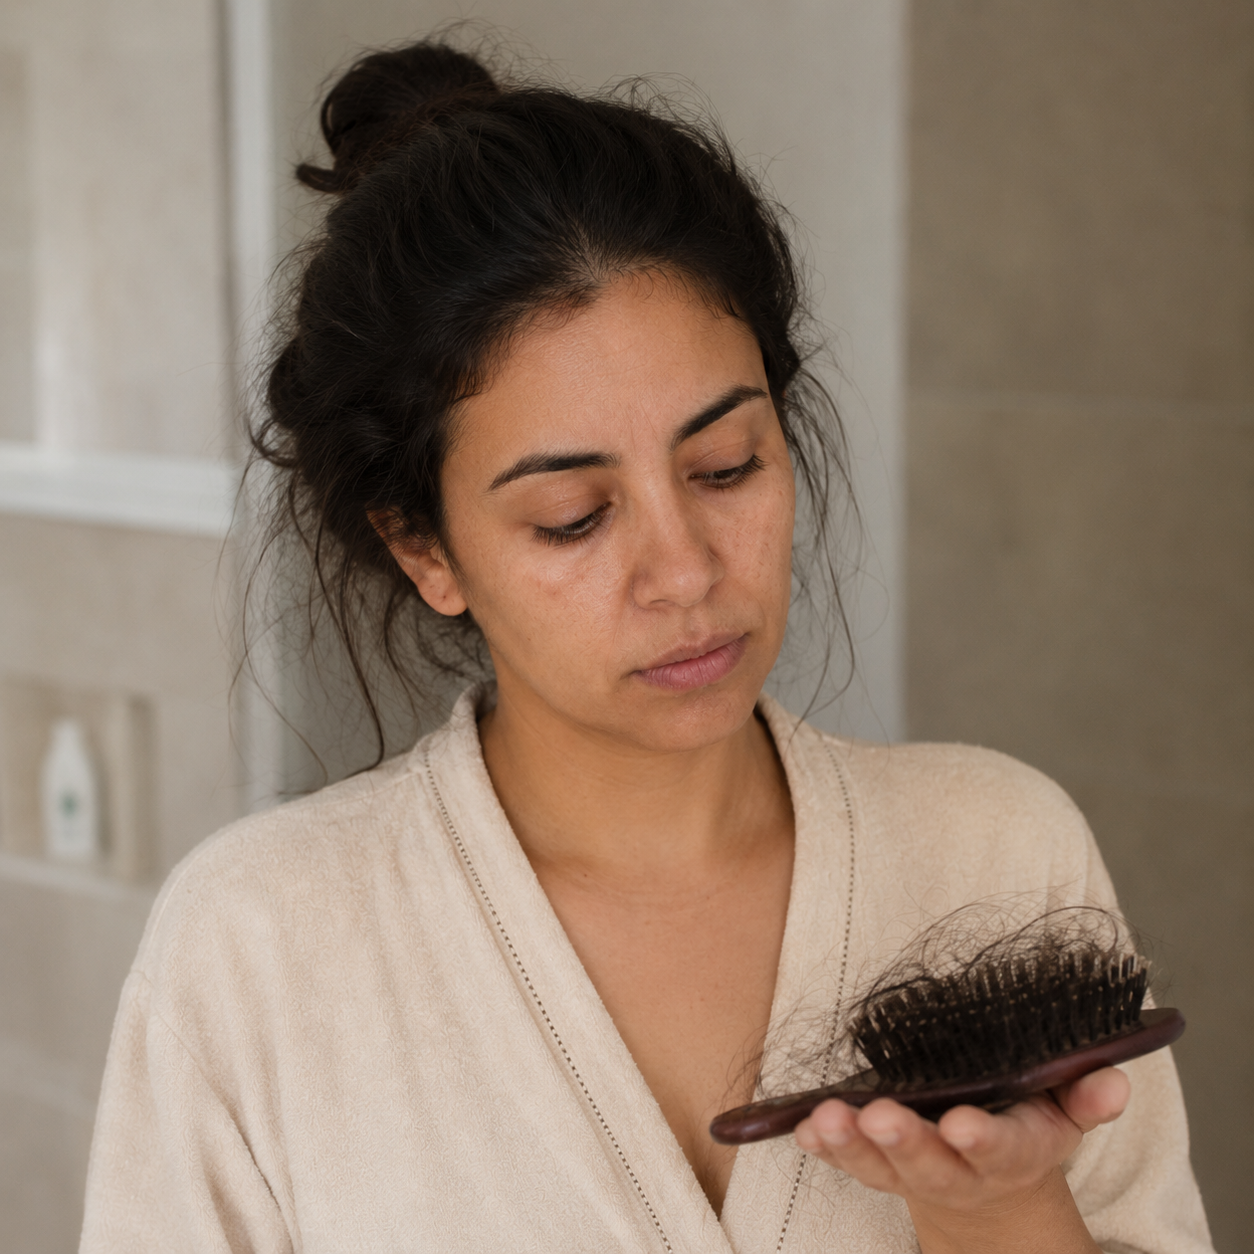
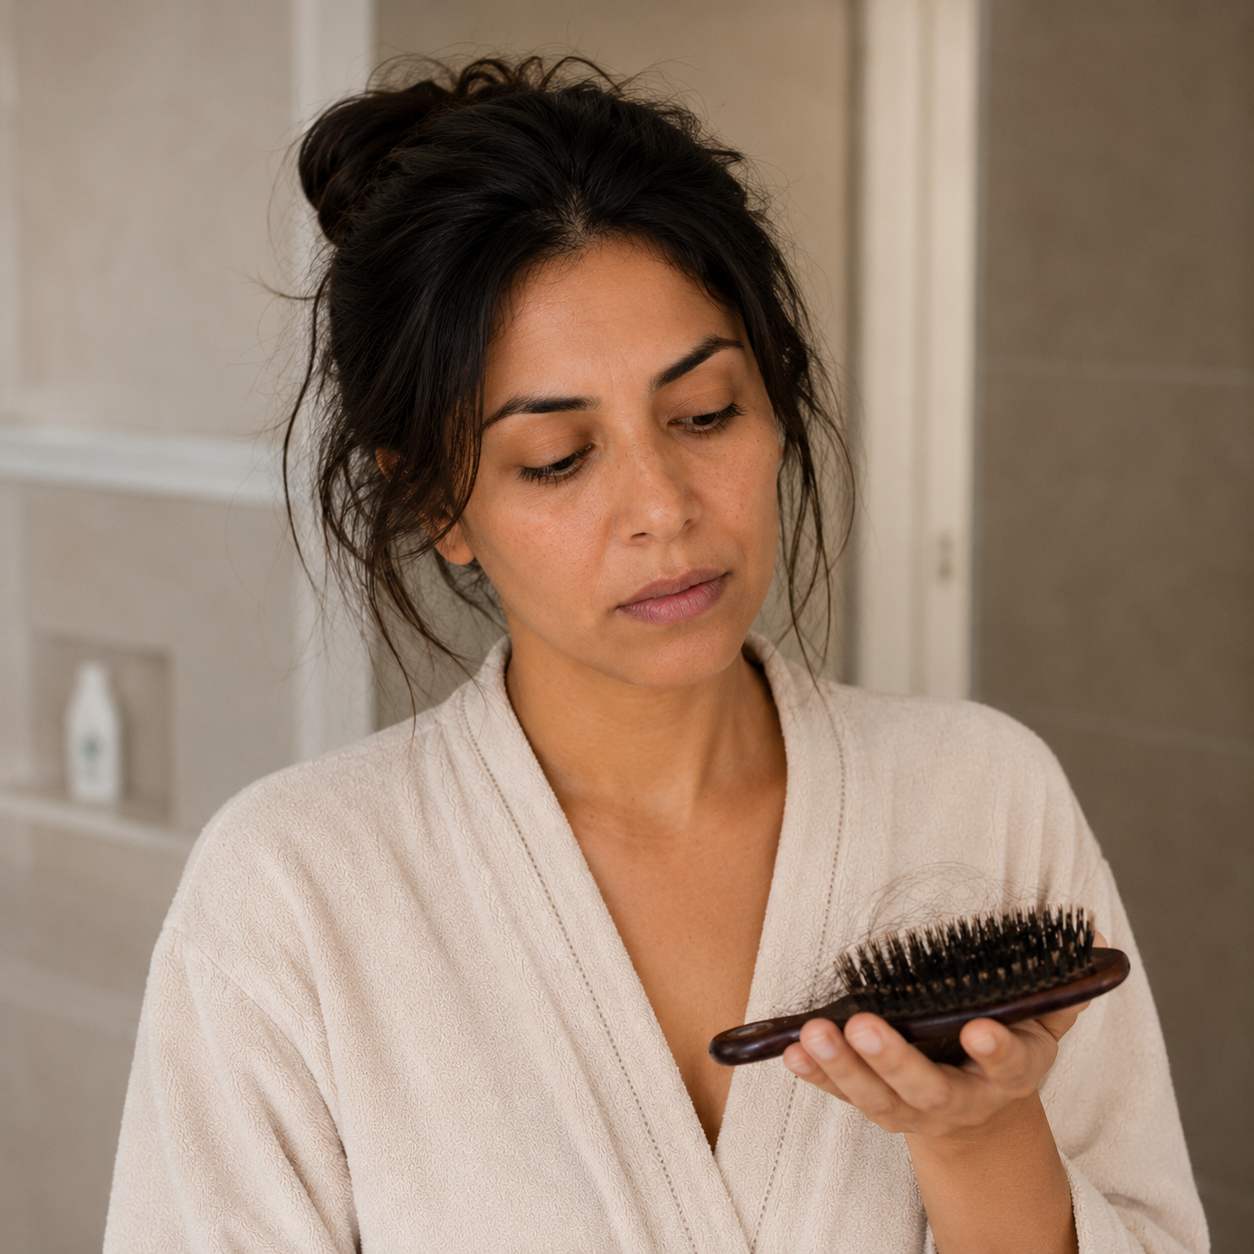
Replace img-frame placeholders with real photos (ginseng + hair loss); add photo CSS

diff --git a/index.html b/index.html
@@ -219,7 +219,7 @@
         </p>
       </div>
       <div class="moment__image fade-in">
-        <img src="images/woman-brush.jpg" alt="Femme tenant sa brosse à cheveux avec des cheveux perdus" class="moment__photo" />
+        <img src="images/moment.png" alt="Femme tenant sa brosse à cheveux avec des cheveux perdus" class="moment__photo" />
       </div>
       <div class="pain-cards">
         <div class="pain-card fade-up" data-delay="0">
@@ -418,7 +418,7 @@
 
         <div class="ingredient-card fade-up">
           <div class="ingredient-card__image">
-            <img src="images/ginseng.jpg" alt="Racine de ginseng — ingrédient actif SELVERINE" class="ingredient-photo" />
+            <img src="images/ingredient-ginseng.png" alt="Racine de ginseng — ingrédient actif SELVERINE" class="ingredient-photo" />
           </div>
           <div class="ingredient-card__content">
             <p class="eyebrow">Actif N°1</p>